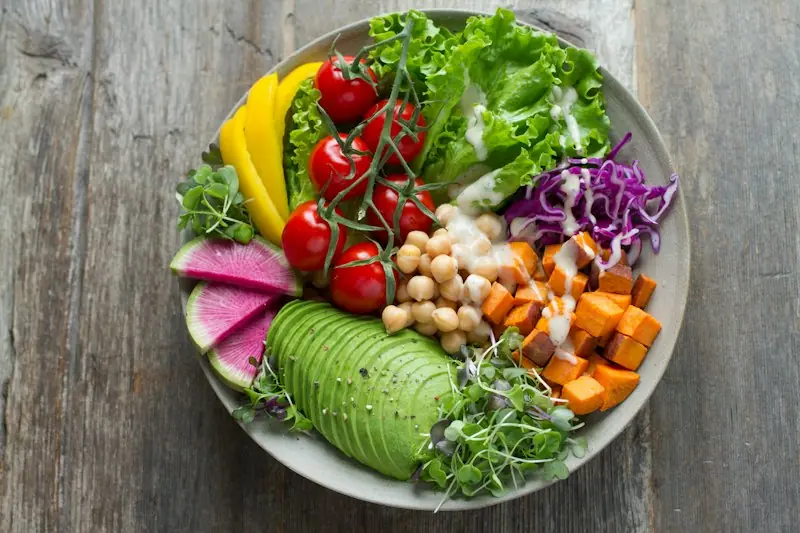
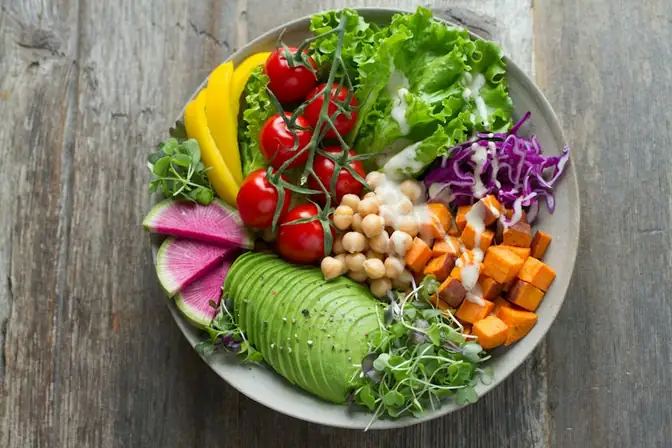
fix(perf): resolve CLS regression, fix hero image dimensions, and preload main JS

Changed region(s): [[0.6562, 0.6875, 0.6875, 0.75]]

diff --git a/src/pages/HomeHero.css b/src/pages/HomeHero.css
@@ -13,7 +13,7 @@
     radial-gradient(ellipse at 15% 42%, rgba(222, 238, 224, .65), transparent 38%),
     radial-gradient(ellipse at 86% 35%, rgba(225, 239, 224, .72), transparent 42%),
     #f8faf6;
-  font-family: Inter, ui-sans-serif, system-ui, -apple-system, BlinkMacSystemFont, "Segoe UI", sans-serif;
+  font-family: Inter, 'Inter Fallback', ui-sans-serif, system-ui, -apple-system, BlinkMacSystemFont, "Segoe UI", sans-serif;
 }
 
 .home-hero-hook *,
@@ -47,7 +47,7 @@
 .hh-proof-item small { align-self: start; color: #87948b; font-size: 8px; line-height: 1.2; }
 .hh-preview__proof-divider { width: 1px; height: 27px; background: #dde6dc; }
 
-.hh-calculator { position: relative; z-index: 1; overflow: hidden; padding: 26px 27px 19px; border: 1px solid rgba(224, 232, 219, .95); border-radius: 19px; background: rgba(255, 255, 252, .93); box-shadow: 0 28px 68px rgba(30, 68, 46, .11), 0 5px 16px rgba(30, 68, 46, .055), inset 0 1px 0 rgba(255, 255, 255, .95); animation: hh-enter .65s cubic-bezier(.2,.75,.25,1) .08s both; }
+.hh-calculator { position: relative; z-index: 1; min-height: 440px; overflow: hidden; padding: 26px 27px 19px; border: 1px solid rgba(224, 232, 219, .95); border-radius: 19px; background: rgba(255, 255, 252, .93); box-shadow: 0 28px 68px rgba(30, 68, 46, .11), 0 5px 16px rgba(30, 68, 46, .055), inset 0 1px 0 rgba(255, 255, 255, .95); animation: hh-enter .65s cubic-bezier(.2,.75,.25,1) .08s both; }
 .hh-calculator__shine { position: absolute; top: -130px; right: -125px; width: 250px; height: 250px; border-radius: 50%; background: radial-gradient(circle, rgba(209, 233, 210, .48), transparent 68%); pointer-events: none; }
 .hh-calculator__topline { position: relative; display: flex; align-items: center; justify-content: space-between; padding-bottom: 17px; border-bottom: 1px solid #edf0e9; color: #76867a; font-size: 8px; font-weight: 760; letter-spacing: .12em; }
 .hh-calculator__topline > span:first-child { display: inline-flex; align-items: center; gap: 8px; }
@@ -118,7 +118,7 @@
   .hh-preview__message h1 { max-width: 590px; margin-top: 19px; font-size: clamp(48px, 10vw, 66px); }
   .hh-preview__subhead { max-width: 520px; font-size: 13px; }
   .hh-preview__proof { margin-top: 24px; }
-  .hh-calculator { width: min(100%, 560px); justify-self: center; padding: 23px 23px 18px; }
+  .hh-calculator { width: min(100%, 560px); min-height: 402px; justify-self: center; padding: 23px 23px 18px; }
   .hh-preview__ambient--one { top: 24%; right: -90px; width: 280px; height: 280px; }
 }
 

diff --git a/critical.css b/critical.css
@@ -3,6 +3,23 @@
  * styled while the full stylesheet loads asynchronously.
  * Keep this file small; it is duplicated into every prerendered page.
  */
+
+/*
+ * Metric-matched Latin fallback: the swap from Arial to Inter keeps identical
+ * line boxes, removing the residual CLS caused by web-font metric differences.
+ */
+@font-face {
+  font-family: 'Inter Fallback';
+  font-style: normal;
+  font-weight: 100 900;
+  font-display: swap;
+  src: local('Arial'), local('Helvetica Neue'), local('Helvetica');
+  size-adjust: 107.12%;
+  ascent-override: 90.44%;
+  descent-override: 22.43%;
+  line-gap-override: 0%;
+}
+
 :root {
   --hc-green: #059669;
   --hc-emerald: #0F4C3A;
@@ -27,10 +44,16 @@ html {
   line-height: 1.5;
 }
 
+/* Reserve the viewport while the SPA mounts so the document height (and any
+ * scrollbar) does not jump between the prerendered shell and the React tree. */
+#root {
+  min-height: 100vh;
+}
+
 body {
   margin: 0;
   min-height: 100vh;
-  font-family: Inter, system-ui, -apple-system, 'Segoe UI', sans-serif;
+  font-family: Inter, 'Inter Fallback', system-ui, -apple-system, 'Segoe UI', sans-serif;
   font-size: 16px;
   line-height: 1.6;
   color: #1f2937;
@@ -167,9 +190,25 @@ textarea {
   line-height: 1.82;
 }
 
+/* Reserve the LCP image box before the async utility CSS arrives so the text
+ * and calculator below it never get pushed down. */
+.hh-preview__message img {
+  display: block;
+  width: 100%;
+  max-width: 430px;
+  height: auto;
+  aspect-ratio: 3 / 2;
+  object-fit: cover;
+  object-position: center;
+  border-radius: 16px;
+}
+
 .hh-calculator {
   position: relative;
   z-index: 1;
+  /* Reserves the card's full height: late font/chunk loads cannot expand it
+   * and shift the content below (CLS). */
+  min-height: 440px;
   padding: 26px 27px 19px;
   border: 1px solid rgba(224, 232, 219, 0.95);
   border-radius: 19px;
@@ -183,6 +222,10 @@ textarea {
     width: min(100% - 40px, 680px);
     min-height: 0;
     padding: 36px 0 48px;
+  }
+
+  .hh-calculator {
+    min-height: 402px;
   }
 
   .hh-preview__message h1 {

diff --git a/vite.config.ts b/vite.config.ts
@@ -50,6 +50,23 @@ const injectCriticalCss = (html: string) => {
   )
 }
 
+/**
+ * Adds a modulepreload for the entry bundle so the browser starts fetching it
+ * while it is still parsing the rest of the document. The entry hash is only
+ * known after bundling, which is why this runs on the emitted HTML.
+ */
+const injectEntryModulePreload = (html: string) => {
+  if (html.includes('data-entry-modulepreload')) return html
+  const entry = html.match(
+    /<script\b[^>]*\btype=["']module["'][^>]*\bsrc=["'][^"']+["'][^>]*>/i
+  )
+  if (!entry) return html
+  const href = entry[0].match(/\bsrc=["']([^"']+)["']/i)?.[1]
+  if (!href) return html
+  const preload = `<link rel="modulepreload" crossorigin href="${href}" data-entry-modulepreload>`
+  return html.replace(entry[0], `${preload}\n    ${entry[0]}`)
+}
+
 function criticalCssPlugin(): Plugin {
   return {
     name: 'critical-css-and-async-styles',
@@ -64,7 +81,7 @@ function criticalCssPlugin(): Plugin {
       if (this.meta?.watchMode) return
       try {
         const html = readFileSync(DIST_INDEX, 'utf8')
-        const next = injectCriticalCss(relaxStylesheets(html))
+        const next = injectCriticalCss(injectEntryModulePreload(relaxStylesheets(html)))
         if (next !== html) writeFileSync(DIST_INDEX, next)
       } catch {
         // No HTML emitted (e.g. library-only builds); nothing to do.

diff --git a/src/pages/HomePage.tsx b/src/pages/HomePage.tsx
@@ -299,11 +299,11 @@ const HomePage: React.FC = () => {
             <h1>Know Your Macros.<br />Eat What You <em>Love.</em></h1>
             <p className="hh-preview__subhead">Calculate your daily calories, explore 18,000+ global dishes, and get personalized meal plans in seconds.</p>
             <img
-              className="mt-6 aspect-[2/1] w-full max-w-[430px] rounded-2xl object-cover object-center shadow-md"
+              className="mt-6 aspect-[3/2] w-full max-w-[430px] rounded-2xl object-cover object-center shadow-md"
               src="/images/hero-bowl.webp"
               alt="A colorful, healthy meal bowl with fresh vegetables"
-              width={800}
-              height={400}
+              width={672}
+              height={448}
               loading="eager"
               decoding="async"
               fetchPriority="high"

diff --git a/src/index.css b/src/index.css
@@ -29,7 +29,7 @@
 .num {
   direction: ltr;
   unicode-bidi: isolate;
-  font-family: 'Inter', sans-serif;
+  font-family: 'Inter', 'Inter Fallback', sans-serif;
   display: inline-block;
 }
 
@@ -38,7 +38,7 @@ html[lang='ar'] button,
 html[lang='ar'] input,
 html[lang='ar'] select,
 html[lang='ar'] textarea {
-  font-family: 'Cairo', 'Inter', sans-serif;
+  font-family: 'Cairo', 'Inter', 'Inter Fallback', sans-serif;
 }
 
 @layer components {

diff --git a/tailwind.config.js b/tailwind.config.js
@@ -56,7 +56,7 @@ export default {
         },
       },
       fontFamily: {
-        sans: ['Inter', 'system-ui', '-apple-system', 'sans-serif'],
+        sans: ['Inter', 'Inter Fallback', 'system-ui', '-apple-system', 'sans-serif'],
       },
       borderRadius: {
         'xl': '0.75rem',

diff --git a/public/style.css b/public/style.css
@@ -19,7 +19,7 @@
   --radius-lg:24px;
   --radius-full:999px;
   --font-ar:'Cairo',sans-serif;
-  --font-en:'Inter',sans-serif;
+  --font-en:'Inter','Inter Fallback',sans-serif;
 }
 
 *{margin:0;padding:0;box-sizing:border-box}
